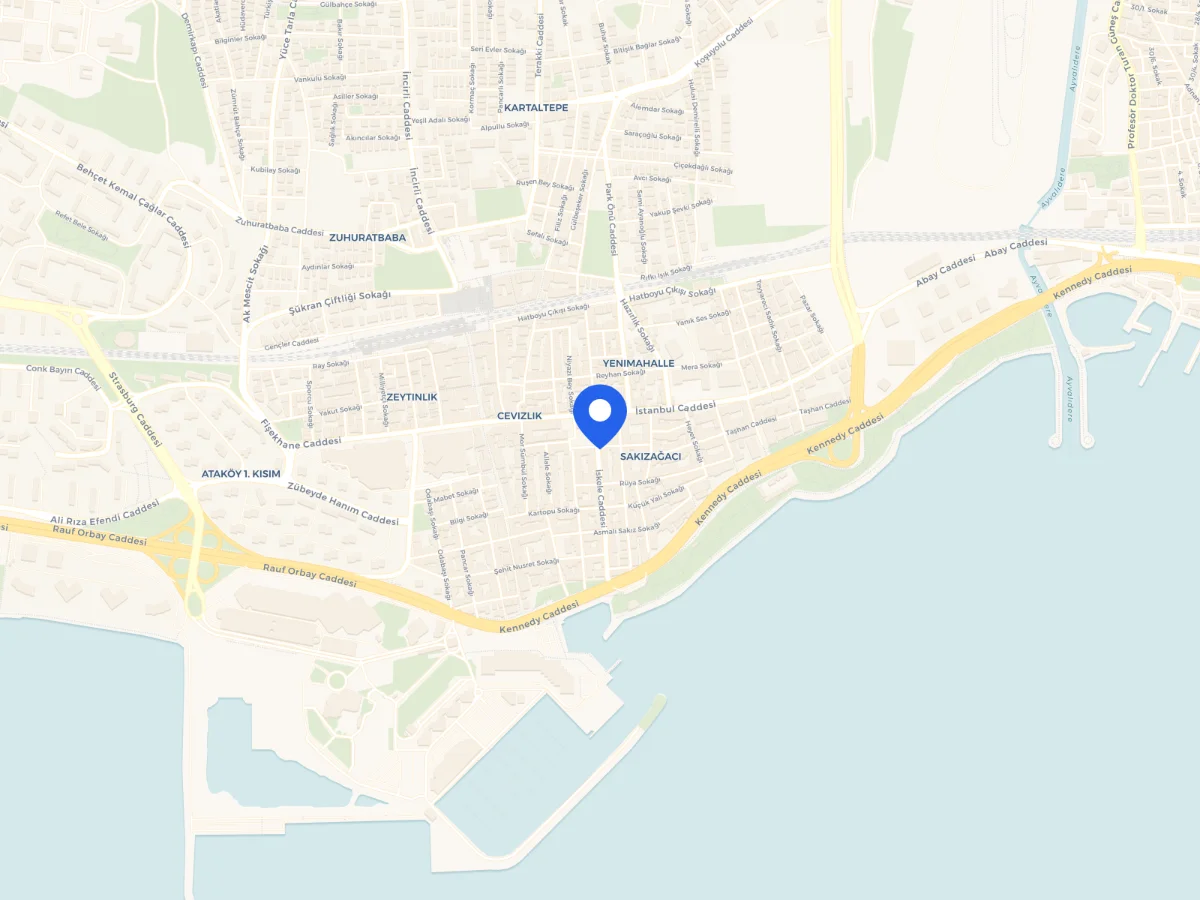
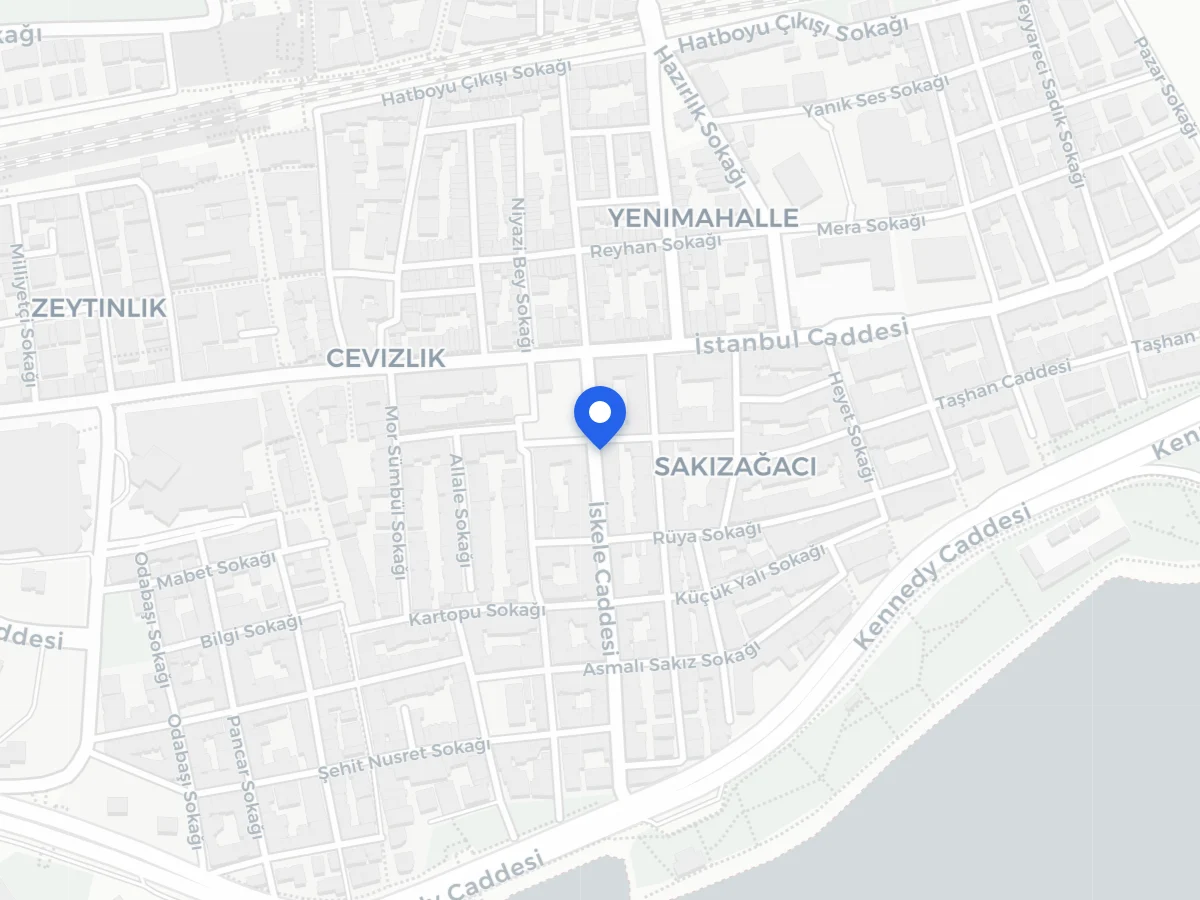
feat: harita zoom 16'ya çekildi (sokak seviyesi, çarşı+İskele Cd okunur); OSM/CARTO atıfı minik köşe etiketine indirildi
Görsel Carto light_all @2x tile'larından yeniden üretildi (1200×900 webp, pin siteConfig.geo). Atıf ODbL gereği kaldırılamıyor — en silik meşru biçime çekildi.

diff --git a/components/visit-section.tsx b/components/visit-section.tsx
@@ -165,9 +165,9 @@ export function VisitSection() {
             decoding="async"
             className="absolute inset-0 h-full w-full object-cover transition-transform duration-500 ease-out group-hover:scale-[1.03] motion-reduce:transition-none motion-reduce:group-hover:scale-100"
           />
-          {/* OSM/CARTO atıfı — lisans gereği görselin üstünde durur */}
-          <span className="absolute right-3 top-3 rounded-full bg-white/90 px-2.5 py-1 text-[10px] font-medium text-[#1F2937]">
-            © OpenStreetMap katkıcıları · CARTO
+          {/* OSM/CARTO atıfı — lisans gereği kaldırılamaz (ODbL); en silik meşru biçim: minik köşe etiketi */}
+          <span className="absolute bottom-1.5 right-2 rounded bg-white/60 px-1.5 py-0.5 text-[9px] leading-none text-[#1F2937]/75">
+            © OSM · CARTO
           </span>
           <span className="absolute bottom-4 left-1/2 inline-flex -translate-x-1/2 items-center gap-1.5 whitespace-nowrap rounded-full bg-white px-4 py-2 text-sm font-semibold text-[#1d4fc4] shadow-lg">
             <MapPin className="size-4" /> Haritada aç
